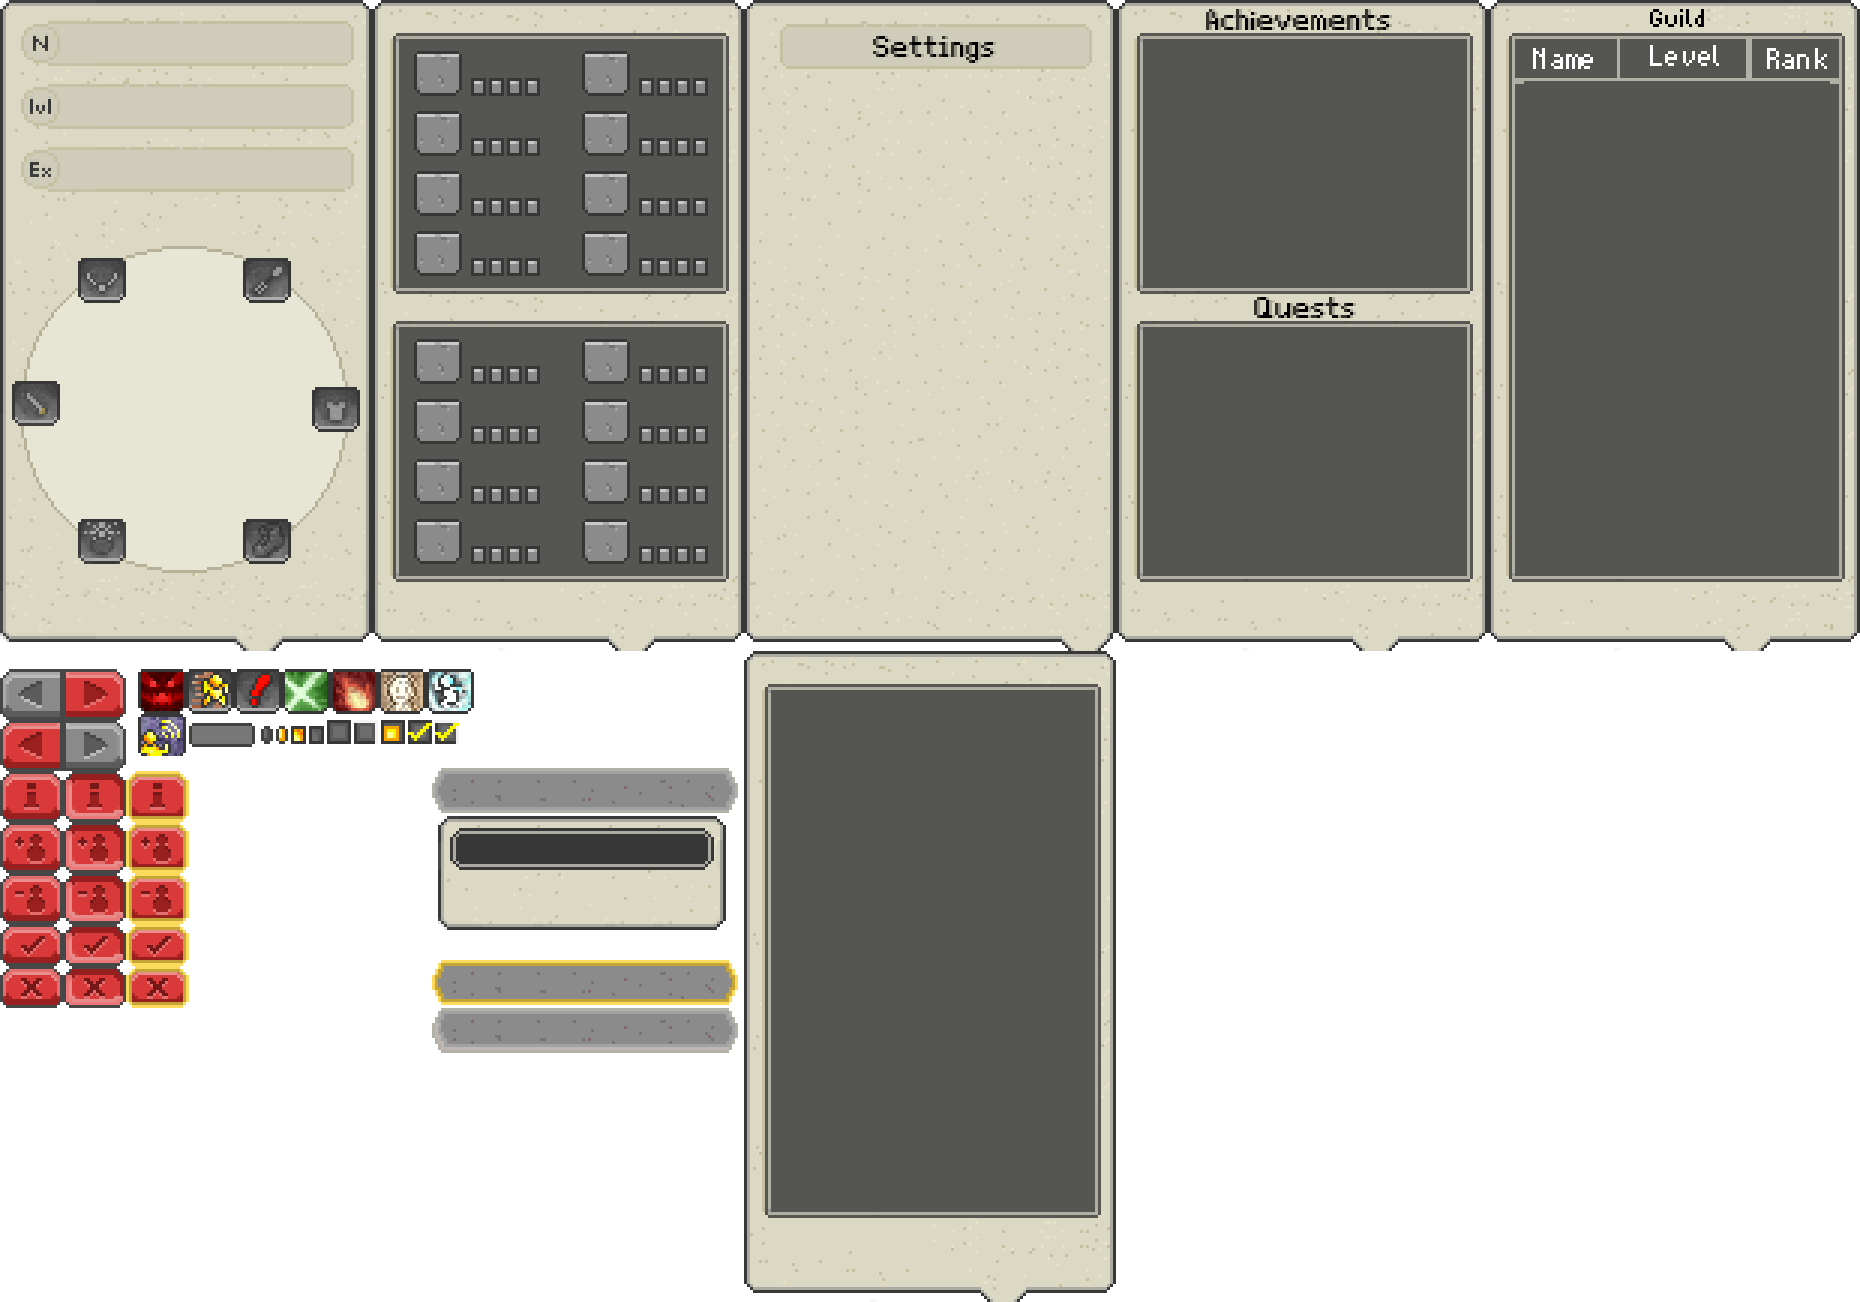
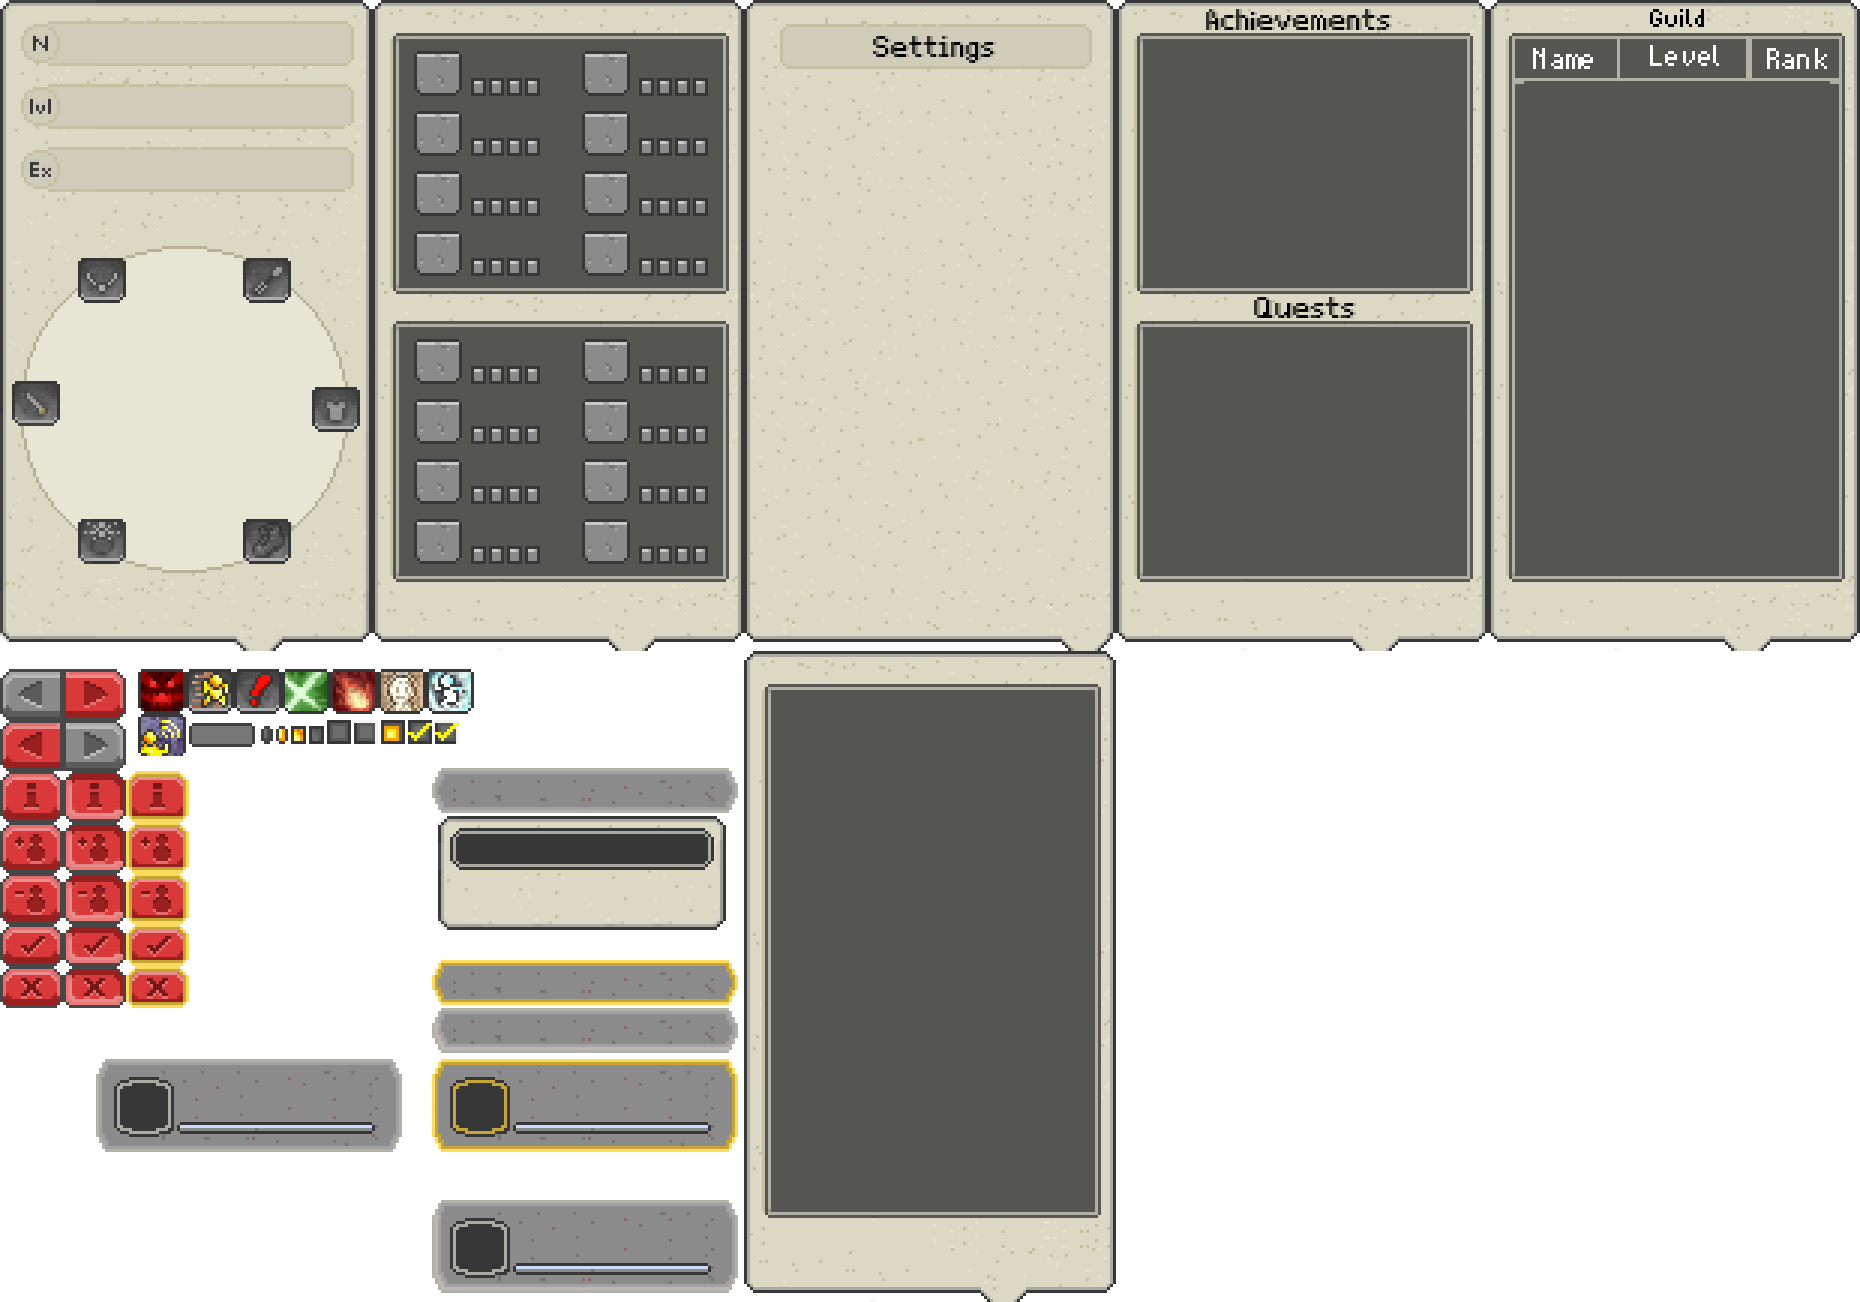
feat: new skill UI

Changed region(s): [[0.0312, 0.7988, 0.4054, 0.8909], [0.2183, 0.9217, 0.4054, 1.0]]

diff --git a/packages/client/scss/game/impl/_profile.scss b/packages/client/scss/game/impl/_profile.scss
@@ -14,8 +14,6 @@
 
 #skills-list {
     position: absolute;
-    top: 6%;
-    left: 8%;
     overflow: auto;
 }
 
@@ -74,6 +72,22 @@
     position: absolute;
     top: 89%;
     left: 37%;
+}
+
+.skill-level,
+.skill-experience {
+    position: absolute;
+}
+
+.skill-level {
+    font-family: AdvoCut, sans-serif;
+    color: white;
+}
+
+.skill-experience {
+    background: linear-gradient(to left, #4F4, #080);
+    transition: .5s width ease;
+    transition: .5s width ease;
 }
 
 #arrows-count {
@@ -262,8 +276,73 @@
         }
 
         #skills-list {
+            top: 16px * $i;
+            left: 12px * $i;
             width: 106px * $i;
-            height: 179px * $i;
+            height: 170px * $i;
+        }
+
+        .skill {
+            width: 102px * $i;
+            height: 31px * $i;
+            padding-top: 3px * $i;
+            background: url('/img/#{$i}/characterdialogsheet.png') -32px * $i -353px * $i;
+
+            &:hover {
+                background-position: -144px * $i -353px * $i;
+            }
+            
+            &:active {
+                background-position: -144px * $i -400px * $i;
+            }
+        }
+
+        .skill-experience {
+            width: 64px * $i;
+            height: 1px * $i;
+            margin-top: 20px * $i;
+            margin-left: 28px * $i;
+        }
+
+        .skill-level {
+            margin-top: 6px * $i;
+            margin-left: 48px * $i;
+            font-size: 10px * $i;
+        }
+
+        .skill-image {
+            width: 16px * $i;
+            height: 16px * $i;
+            margin-top: 5px * $i;
+            margin-left: 8px * $i;
+        }
+
+        .skill-image-accuracy {
+            background: url('/img/#{$i}/skills/accuracy.png');
+        }
+
+        .skill-image-archery {
+            background: url('/img/#{$i}/skills/archery.png');
+        }
+
+        .skill-image-health {
+            background: url('/img/#{$i}/skills/health.png');
+        }
+
+        .skill-image-lumberjacking {
+            background: url('/img/#{$i}/skills/lumberjacking.png');
+        }
+
+        .skill-image-magic {
+            background: url('/img/#{$i}/skills/magic.png');
+        }
+
+        .skill-image-mining {
+            background: url('/img/#{$i}/skills/mining.png');
+        }
+
+        .skill-image-strength {
+            background: url('/img/#{$i}/skills/strength.png');
         }
 
         #achievement-count,

diff --git a/packages/client/src/menu/profile/impl/skills.ts b/packages/client/src/menu/profile/impl/skills.ts
@@ -1,6 +1,7 @@
 import Menu from '../../menu';
 
 import _ from 'lodash-es';
+import { Modules } from '@kaetram/common/network';
 
 import type Player from '../../../entity/character/player/player';
 import type Skill from '../../../entity/character/player/skill';
@@ -29,24 +30,30 @@ export default class Skills extends Menu {
      */
 
     private createElement(skill: Skill): HTMLLIElement {
-        let listElement = document.createElement('li'),
-            skillElement = document.createElement('div'),
+        let element = document.createElement('li'),
             name = document.createElement('div'),
-            info = document.createElement('p');
+            image = document.createElement('div'),
+            experience = document.createElement('div');
 
-        // Append the class to the elements.
-        skillElement.classList.add('profession-item');
-        name.classList.add('profession-name');
+        // Add the skill class to the base element.
+        element.classList.add('skill');
 
-        // Update the skill element data.
-        name.textContent = skill.name;
-        info.textContent = `Level ${skill.level} | ${skill.percentage.toFixed(1)}%`;
+        // Update the skill level
+        name.classList.add('skill-level', 'stroke');
+        name.innerHTML = `${skill.level}/${Modules.Constants.MAX_LEVEL}`;
 
-        // Append children elements.
-        name.append(info);
-        skillElement.append(name);
-        listElement.append(skillElement);
+        // Load the image based on the skill name.
+        image.classList.add('skill-image', `skill-image-${skill.name.toLowerCase()}`);
 
-        return listElement;
+        // Load up the experience bar.
+        experience.classList.add('skill-experience');
+
+        // Set the experience bar's width.
+        experience.style.width = `${experience.offsetWidth * skill.percentage}px`;
+
+        // Add the image to the element.
+        element.append(name, experience, image);
+
+        return element;
     }
 }

diff --git a/packages/server/src/game/entity/character/player/skill/skill.ts b/packages/server/src/game/entity/character/player/skill/skill.ts
@@ -40,8 +40,7 @@ export default abstract class Skill {
     public getPercentage(): number {
         let prevExperience = Formulas.prevExp(this.experience),
             nextExperience = Formulas.nextExp(this.experience),
-            percentage =
-                ((this.experience - prevExperience) / (nextExperience - prevExperience)) * 100;
+            percentage = (this.experience - prevExperience) / (nextExperience - prevExperience);
 
         return percentage < 0 ? 0 : percentage;
     }
